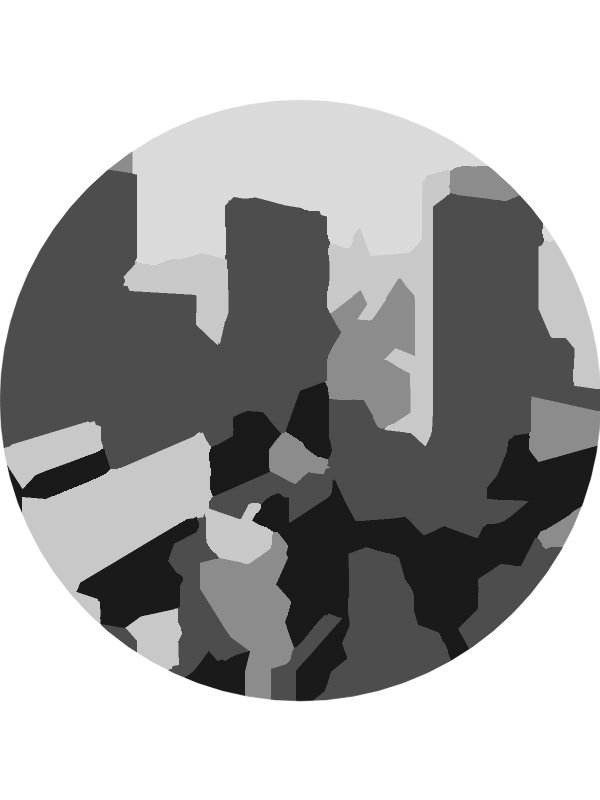
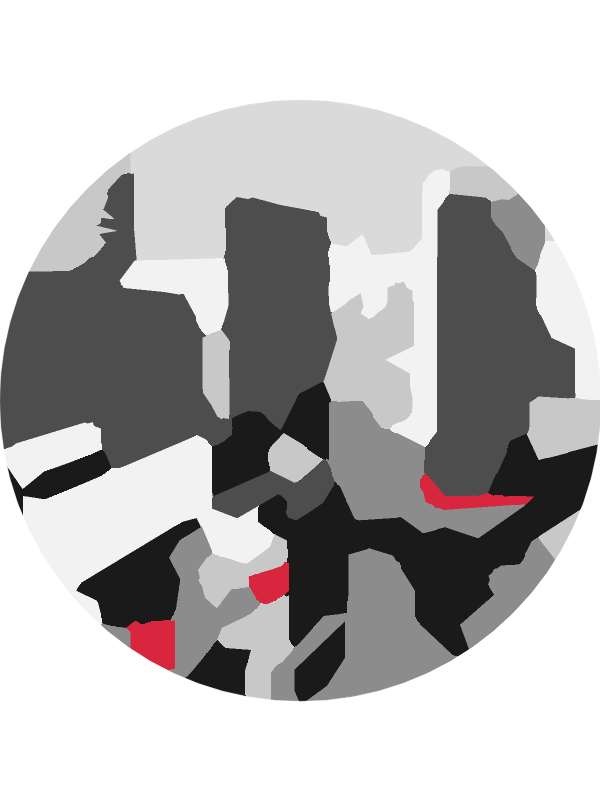
feat: keep small accents, area-weighted tone mapping, experiment script
- extract_accents closes text gaps so a sign becomes one patch; accent
  regions are protected from small-region merging (red billboard now shows)
- tone_mapping=area assigns tones by cumulative pixel area, giving dark
  dusk photos the full light-to-dark range (new default; rank still available)
- majority window default 13 -> 17
- scripts/experiment.py renders config variants side by side

Changed region(s): [[0.0, 0.1875, 1.0, 0.875]]

diff --git a/src/photo2stamp/pipeline.py b/src/photo2stamp/pipeline.py
@@ -20,12 +20,15 @@ from .segment import (
 from .vectorize import SHAPES, apply_shape_mask, labels_to_shapes, render_png, shapes_to_svg
 
 
+TONE_MAPPINGS = ("area", "rank")
+
+
 @dataclass(frozen=True)
 class StampConfig:
     max_size: int = 800  # long side in px after resize (0 = keep original size)
     colors: int = 8  # number of k-means clusters before palette mapping
     smooth: int = 2  # edge-preserving smoothing passes
-    majority: int = 13  # majority-filter window (px); larger = blockier shapes
+    majority: int = 17  # majority-filter window (px); larger = blockier shapes
     min_region: float = 0.003  # regions smaller than this fraction of the image are merged
     simplify: float = 0.005  # polygon simplification tolerance as a fraction of the diagonal
     snap_deg: float = 12.0  # edges this close to vertical are made exactly vertical (0 = off)
@@ -33,11 +36,14 @@ class StampConfig:
     detect_sky: bool = True
     accent_chroma: float = 28.0  # clusters more saturated than this become accent colors
     shape: str = "rect"  # "rect" or "circle"
+    tone_mapping: str = "area"  # "area" (equalize by pixel area) or "rank" (one tone per cluster)
     seed: int = 0
 
     def __post_init__(self) -> None:
         if self.colors < 2:
             raise ValueError("colors must be >= 2")
+        if self.tone_mapping not in TONE_MAPPINGS:
+            raise ValueError(f"tone_mapping must be one of {TONE_MAPPINGS}")
         if self.shape not in SHAPES:
             raise ValueError(f"shape must be one of {SHAPES}")
         if min(self.max_size, self.smooth, self.majority, self.snap_deg) < 0:
@@ -85,10 +91,16 @@ def resize_long_side(image: np.ndarray, max_size: int) -> np.ndarray:
     return cv2.resize(image, size, interpolation=cv2.INTER_AREA)
 
 
-def _unify_by_color(labels: np.ndarray, colors: np.ndarray) -> tuple[np.ndarray, np.ndarray]:
-    """Clusters that map to the same palette color become a single label."""
+def _unify_by_color(
+    labels: np.ndarray, colors: np.ndarray
+) -> tuple[np.ndarray, np.ndarray, np.ndarray]:
+    """Clusters that map to the same palette color become a single label.
+
+    Returns (new_labels, unique_colors, old_to_new) where old_to_new maps old label ids.
+    """
     unique, inverse = np.unique(colors, axis=0, return_inverse=True)
-    return inverse.reshape(-1)[labels].astype(np.int32), unique
+    old_to_new = inverse.reshape(-1).astype(np.int32)
+    return old_to_new[labels], unique, old_to_new
 
 
 def stylize(image: np.ndarray, config: StampConfig | None = None) -> StampResult:
@@ -101,16 +113,24 @@ def stylize(image: np.ndarray, config: StampConfig | None = None) -> StampResult
     labels, centers = quantize(smoothed, cfg.colors, cfg.seed)
     window = cfg.majority | 1 if cfg.majority > 1 else 1
     labels = majority_filter(labels, centers.shape[0], size=window, iterations=2)
-    labels, centers = extract_accents(to_lab(smoothed), labels, centers, cfg.accent_chroma, min_area)
+    n_base = centers.shape[0]
+    labels, centers = extract_accents(
+        to_lab(smoothed), labels, centers, cfg.accent_chroma, max(1, min_area // 4)
+    )
+    accent_ids = range(n_base, centers.shape[0])
 
     sky = frozenset()
     if cfg.detect_sky:
         labels, centers, sky_label = extract_sky(labels, centers)
         sky = frozenset() if sky_label is None else frozenset({sky_label})
 
-    colors = assign_colors(centers, get_palette(cfg.palette), sky, cfg.accent_chroma)
-    labels, colors = _unify_by_color(labels, colors)
-    labels = merge_small_regions(labels, min_area)
+    weights = None
+    if cfg.tone_mapping == "area":
+        weights = np.bincount(labels.ravel(), minlength=centers.shape[0])
+    colors = assign_colors(centers, get_palette(cfg.palette), sky, cfg.accent_chroma, weights)
+    labels, colors, old_to_new = _unify_by_color(labels, colors)
+    keep = frozenset(int(old_to_new[i]) for i in accent_ids)
+    labels = merge_small_regions(labels, min_area, keep=keep)
 
     epsilon = cfg.simplify * float(np.hypot(h, w))
     shapes = labels_to_shapes(labels, colors, epsilon, cfg.snap_deg)

diff --git a/scripts/experiment.py b/scripts/experiment.py
@@ -1,0 +1,78 @@
+"""Render several StampConfig variants side by side for visual comparison.
+
+    uv run python scripts/experiment.py examples/photo.jpg -o sheet.png \
+        "rank:tone_mapping=rank" "area:tone_mapping=area" "blocky:majority=21,min_region=0.006"
+
+Each variant is NAME:key=value,key=value (StampConfig fields). Use --reference to append
+a target image at the end of the row.
+"""
+
+from __future__ import annotations
+
+import argparse
+import dataclasses
+import sys
+from pathlib import Path
+
+import cv2
+import numpy as np
+
+from photo2stamp import StampConfig, stylize
+
+_FIELDS = {f.name: f.type for f in dataclasses.fields(StampConfig)}
+
+
+def parse_variant(spec: str) -> tuple[str, StampConfig]:
+    name, _, body = spec.partition(":")
+    kwargs: dict[str, object] = {}
+    for item in filter(None, body.split(",")):
+        key, _, raw = item.partition("=")
+        if key not in _FIELDS:
+            raise ValueError(f"unknown field {key!r}")
+        default = getattr(StampConfig(), key)
+        if isinstance(default, bool):
+            kwargs[key] = raw.lower() in ("1", "true", "yes")
+        else:
+            kwargs[key] = type(default)(raw)
+    return name, StampConfig(**kwargs)
+
+
+def _tile(image: np.ndarray, label: str, height: int) -> np.ndarray:
+    if image.shape[2] == 4:
+        alpha = image[..., 3:].astype(np.float32) / 255
+        image = (image[..., :3] * alpha + 255 * (1 - alpha)).astype(np.uint8)
+    w = int(image.shape[1] * height / image.shape[0])
+    tile = cv2.resize(image, (w, height), interpolation=cv2.INTER_AREA)
+    cv2.rectangle(tile, (0, 0), (w, 28), (255, 255, 255), -1)
+    cv2.putText(tile, label, (6, 20), cv2.FONT_HERSHEY_SIMPLEX, 0.6, (0, 0, 0), 1, cv2.LINE_AA)
+    return tile
+
+
+def main(argv: list[str] | None = None) -> int:
+    p = argparse.ArgumentParser()
+    p.add_argument("image", type=Path)
+    p.add_argument("variants", nargs="+")
+    p.add_argument("-o", "--output", type=Path, default=Path("experiment.png"))
+    p.add_argument("--reference", type=Path, help="target image appended at the end")
+    p.add_argument("--height", type=int, default=600)
+    args = p.parse_args(argv)
+
+    image = cv2.imread(str(args.image), cv2.IMREAD_COLOR)
+    if image is None:
+        print(f"error: cannot read image: {args.image}", file=sys.stderr)
+        return 1
+    tiles = [_tile(image, "input", args.height)]
+    for spec in args.variants:
+        name, config = parse_variant(spec)
+        tiles.append(_tile(stylize(image, config).image, name, args.height))
+    if args.reference:
+        ref = cv2.imread(str(args.reference), cv2.IMREAD_COLOR)
+        if ref is not None:
+            tiles.append(_tile(ref, "reference", args.height))
+    cv2.imwrite(str(args.output), np.hstack(tiles))
+    print(args.output)
+    return 0
+
+
+if __name__ == "__main__":
+    sys.exit(main())

diff --git a/src/photo2stamp/palette.py b/src/photo2stamp/palette.py
@@ -107,8 +107,15 @@ def assign_colors(
     palette: Palette | None,
     sky_labels: frozenset[int] = frozenset(),
     accent_chroma: float = 35.0,
+    weights: np.ndarray | None = None,
 ) -> np.ndarray:
-    """Map each cluster center (Lab) to a flat BGR color. Returns a new (K,3) uint8 array."""
+    """Map each cluster center (Lab) to a flat BGR color. Returns a new (K,3) uint8 array.
+
+    Neutral clusters are sorted by lightness. Without `weights` each cluster takes the
+    next tone by rank. With `weights` (pixel counts) tones are assigned by the cluster's
+    position in the cumulative area, like histogram equalization, so a dark photo still
+    uses the whole tone range.
+    """
     centers = np.asarray(centers_lab, np.float32)
     if palette is None:
         return lab_to_bgr(centers)
@@ -131,8 +138,17 @@ def assign_colors(
 
     if neutral:
         order = sorted(neutral, key=lambda i: float(centers[i, 0]))
-        n, t = len(order), len(tones)
-        for rank, idx in enumerate(order):
-            tone = round(rank * (t - 1) / (n - 1)) if n > 1 else t // 2
+        for idx, tone in zip(order, _tone_indices(order, len(tones), weights)):
             out[idx] = tones[tone]
     return out
+
+
+def _tone_indices(order: list[int], n_tones: int, weights: np.ndarray | None) -> list[int]:
+    n = len(order)
+    if weights is None or float(np.sum(np.asarray(weights)[order])) <= 0:
+        if n == 1:
+            return [n_tones // 2]
+        return [round(rank * (n_tones - 1) / (n - 1)) for rank in range(n)]
+    w = np.asarray(weights, np.float64)[order]
+    mids = (np.cumsum(w) - w / 2) / w.sum()
+    return [min(n_tones - 1, int(m * n_tones)) for m in mids]

diff --git a/src/photo2stamp/segment.py b/src/photo2stamp/segment.py
@@ -62,12 +62,19 @@ def majority_filter(labels: np.ndarray, n_labels: int, size: int = 7, iterations
     return out
 
 
-def merge_small_regions(labels: np.ndarray, min_area: int) -> np.ndarray:
-    """Absorb connected regions smaller than min_area into their nearest large neighbour."""
+def merge_small_regions(
+    labels: np.ndarray, min_area: int, keep: frozenset[int] = frozenset()
+) -> np.ndarray:
+    """Absorb connected regions smaller than min_area into their nearest large neighbour.
+
+    Labels in `keep` (e.g. accent colors such as signs) are never absorbed.
+    """
     if min_area <= 1:
         return labels.copy()
     small = np.zeros(labels.shape, bool)
     for lab in np.unique(labels):
+        if int(lab) in keep:
+            continue
         mask = (labels == lab).astype(np.uint8)
         count, comp, stats, _ = cv2.connectedComponentsWithStats(mask, connectivity=4)
         tiny = np.flatnonzero(stats[1:, cv2.CC_STAT_AREA] < min_area) + 1
@@ -94,6 +101,8 @@ def extract_accents(
     """
     vivid = (np.hypot(lab[..., 1], lab[..., 2]) >= chroma).astype(np.uint8)
     vivid = cv2.morphologyEx(vivid, cv2.MORPH_OPEN, np.ones((3, 3), np.uint8))
+    # close gaps left by text and frames so a sign becomes one solid patch
+    vivid = cv2.morphologyEx(vivid, cv2.MORPH_CLOSE, np.ones((7, 7), np.uint8))
     count, comp, stats, _ = cv2.connectedComponentsWithStats(vivid, connectivity=8)
     new_labels = labels.copy()
     extra: list[np.ndarray] = []

diff --git a/tests/test_segment.py b/tests/test_segment.py
@@ -96,3 +96,27 @@ def test_extract_accents_ignores_tiny_specks():
     centers = np.array([[50, 0, 0]], np.float32)
     _, new_centers = extract_accents(to_lab(img), labels, centers, chroma=35, min_area=50)
     assert new_centers.shape[0] == 1
+
+
+def test_merge_small_regions_keeps_protected_labels():
+    labels = np.zeros((40, 40), np.int32)
+    labels[5:7, 5:7] = 2  # tiny accent
+    labels[20:22, 20:22] = 3  # tiny non-accent
+    out = merge_small_regions(labels, min_area=10, keep=frozenset({2}))
+    assert out[5, 5] == 2
+    assert out[20, 20] == 0
+
+
+def test_extract_accents_bridges_text_holes():
+    from photo2stamp.segment import extract_accents, to_lab
+
+    img = np.full((100, 100, 3), 120, np.uint8)
+    img[40:60, 30:70] = (40, 40, 220)  # red billboard
+    img[40:60, 38:40] = 230  # white text strokes split it
+    img[40:60, 50:52] = 230
+    img[40:60, 60:62] = 230
+    labels = np.zeros((100, 100), np.int32)
+    centers = np.array([[50, 0, 0]], np.float32)
+    new_labels, new_centers = extract_accents(to_lab(img), labels, centers, chroma=35, min_area=300)
+    assert new_centers.shape[0] == 2  # one accent cluster, not three fragments
+    assert new_labels[50, 50] == 1  # text stroke inside the sign is filled

diff --git a/src/photo2stamp/cli.py b/src/photo2stamp/cli.py
@@ -9,7 +9,7 @@ from pathlib import Path
 import cv2
 
 from .palette import ORIGINAL, PRESETS
-from .pipeline import StampConfig, stylize
+from .pipeline import TONE_MAPPINGS, StampConfig, stylize
 from .vectorize import SHAPES
 
 
@@ -29,6 +29,10 @@ def build_parser() -> argparse.ArgumentParser:
     p.add_argument("--accent-chroma", type=float, default=d.accent_chroma, help="saturation threshold for accents")
     p.add_argument("--no-sky", action="store_true", help="disable sky detection")
     p.add_argument("--shape", default=d.shape, choices=SHAPES, help="stamp outline")
+    p.add_argument(
+        "--tone-mapping", default=d.tone_mapping, choices=TONE_MAPPINGS,
+        help="area: spread tones by pixel area (default) / rank: one tone per cluster",
+    )
     p.add_argument("--svg", action="store_true", help="also write an SVG next to the PNG")
     p.add_argument("--seed", type=int, default=d.seed)
     return p
@@ -47,6 +51,7 @@ def _config(args: argparse.Namespace) -> StampConfig:
         detect_sky=not args.no_sky,
         accent_chroma=args.accent_chroma,
         shape=args.shape,
+        tone_mapping=args.tone_mapping,
         seed=args.seed,
     )
 

diff --git a/tests/test_palette.py b/tests/test_palette.py
@@ -60,3 +60,18 @@ def test_assign_colors_does_not_mutate_input():
     before = centers.copy()
     assign_colors(centers, get_palette("mono"))
     np.testing.assert_array_equal(centers, before)
+
+
+def test_assign_colors_area_weighted_spreads_tones_by_area():
+    palette = get_palette("mono")  # 5 tones
+    # three dark clusters cover 90% of the image, one light cluster 10%
+    centers = np.array([[10, 0, 0], [15, 0, 0], [20, 0, 0], [90, 0, 0]], np.float32)
+    weights = np.array([30, 30, 30, 10], np.float64)
+    by_rank = assign_colors(centers, palette)
+    by_area = assign_colors(centers, palette, weights=weights)
+    tones = [hex_to_bgr(t) for t in palette.tones]
+    # by rank the 2nd cluster gets tone 1; by area its midpoint (45%) lands on tone 2
+    assert tuple(by_rank[1]) == tones[1]
+    assert tuple(by_area[1]) == tones[2]
+    assert tuple(by_area[0]) == tones[0]
+    assert tuple(by_area[3]) == tones[-1]

diff --git a/README.md b/README.md
@@ -53,10 +53,10 @@ open("stamp.svg", "w").write(result.svg)
 | 2 | バイラテラルフィルタと mean-shift で、輪郭を残したまま細部を消す | `segment.smooth` |
 | 3 | Lab 色空間の k-means で色を 8 クラスタに分ける | `segment.quantize` |
 | 4 | 多数決フィルタでラベルの境界をならす | `segment.majority_filter` |
-| 5 | 彩度の高い小領域(看板や照明)を独立したクラスタとして拾う | `segment.extract_accents` |
+| 5 | 彩度の高い小領域(看板や照明)を独立したクラスタとして拾う。文字のすき間は閉じて1枚の面にする | `segment.extract_accents` |
 | 6 | 上端に接する明るい領域を空として扱う | `segment.extract_sky` |
-| 7 | 明度の順位でパレットの濃淡に割り当てる。空は空色、彩度の高い領域は色相が近いアクセント色にする | `palette.assign_colors` |
-| 8 | 同じ色になったクラスタを統合し、小さな領域を隣の領域に吸収させる | `segment.merge_small_regions` |
+| 7 | 明度の順に、面積で重み付けしてパレットの濃淡に割り当てる。空は空色、彩度の高い領域は色相が近いアクセント色にする | `palette.assign_colors` |
+| 8 | 同じ色になったクラスタを統合し、小さな領域を隣の領域に吸収させる。アクセント色の領域は小さくても残す | `segment.merge_small_regions` |
 | 9 | 輪郭を追跡し、Douglas-Peucker 法で頂点を減らし、垂直に近い辺を垂直にそろえる | `vectorize.labels_to_shapes` |
 | 10 | 面積の大きい順に塗って PNG と SVG に書き出す | `vectorize.render_png` / `shapes_to_svg` |
 
@@ -68,22 +68,33 @@ open("stamp.svg", "w").write(result.svg)
 |---|---|---|
 | `--palette` | `teal` | `teal` / `warm` / `mono` / `original` |
 | `--colors` | 8 | k-means のクラスタ数。増やすと細部が残る |
-| `--majority` | 13 | 多数決フィルタの窓幅(px)。大きいほど形が大づかみになる |
+| `--majority` | 17 | 多数決フィルタの窓幅(px)。大きいほど形が大づかみになる |
 | `--min-region` | 0.003 | 画像面積に対するこの割合より小さい領域を消す |
 | `--simplify` | 0.005 | 多角形の簡略化の許容誤差(対角線長に対する割合) |
 | `--snap-deg` | 12 | 垂直からこの角度以内の辺を垂直にする。0 で無効 |
 | `--accent-chroma` | 28 | この彩度以上の領域をアクセント色にする |
 | `--no-sky` | なし | 空の検出を切る |
+| `--tone-mapping` | `area` | `area`は面積で重み付けして濃淡を割り当てる(暗い写真でも明暗が出る)。`rank`はクラスタごとに順に1段ずつ割り当てる |
 | `--shape` | `rect` | `circle` にすると円形に切り抜いた透過 PNG を出す |
 | `--svg` | なし | PNG に加えて SVG も出力する |
 
 ## 制約
 
 - 構図は写真のままなので、写っているものが多い写真ほど図形が細かく残ります。被写体を絞って撮ると結果が良くなります
-- 色の割り当ては明度の順位で決めます。道路を明るい色にするといった、物の意味に応じた塗り分けはしません
+- 色の割り当ては明度と面積だけで決めます。道路を明るい色にするといった、物の意味に応じた塗り分けはしません
 - 窓の縦縞やガラスの格子のような、写真に細かく写っている模様は平滑化の段階で消えます
 - 空の検出は「上端に接していて明るい」という条件だけで判定します。白い建物が上端に接していると空と判定されることがあります
+- 地平線付近のかすんだ街並みは明るく写るため、白やクリーム色で塗られます。遠景を青いシルエットにする処理はまだありません
 - SVGは多角形を重ねて描くので、隣り合う図形のすき間に下の図形の色が細く見えることがあります。PNGはラベル画像を下地に塗ってからこの多角形を重ねるので、すき間は出ません
+
+## 実験用スクリプト
+
+`scripts/experiment.py`は、設定を変えた結果を横に並べた比較画像を作るスクリプトです。各変種は`名前:項目=値,項目=値`の形で指定し、項目には`StampConfig`のフィールド名を使います。
+
+```bash
+uv run python scripts/experiment.py examples/photo.jpg -o sheet.png \
+    "rank:tone_mapping=rank" "area:tone_mapping=area" "blocky:majority=25,min_region=0.006"
+```
 
 ## 開発
 
